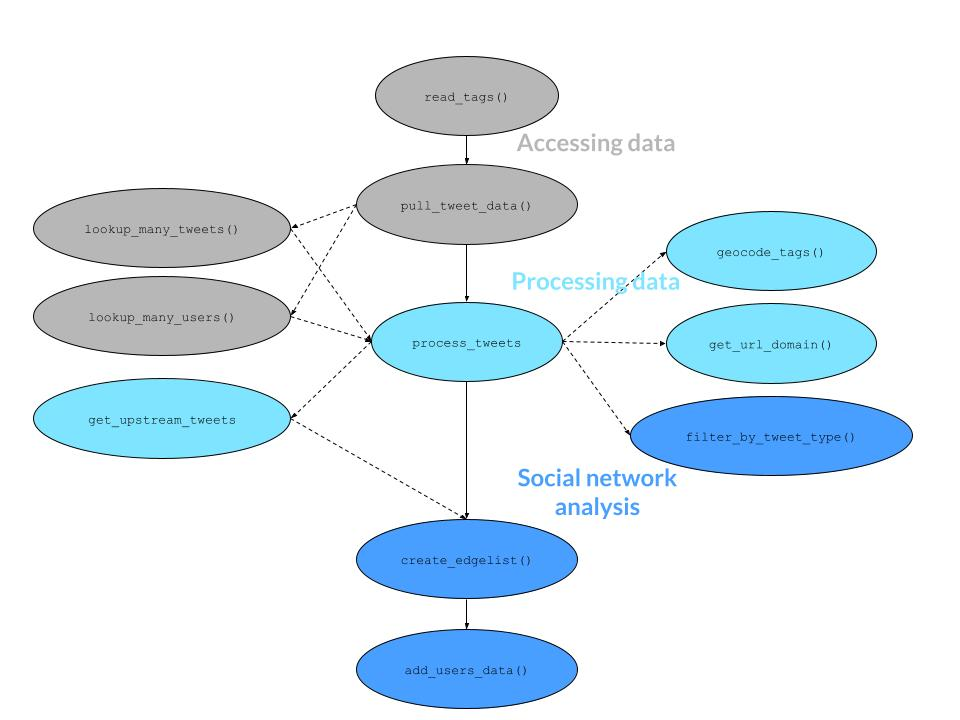
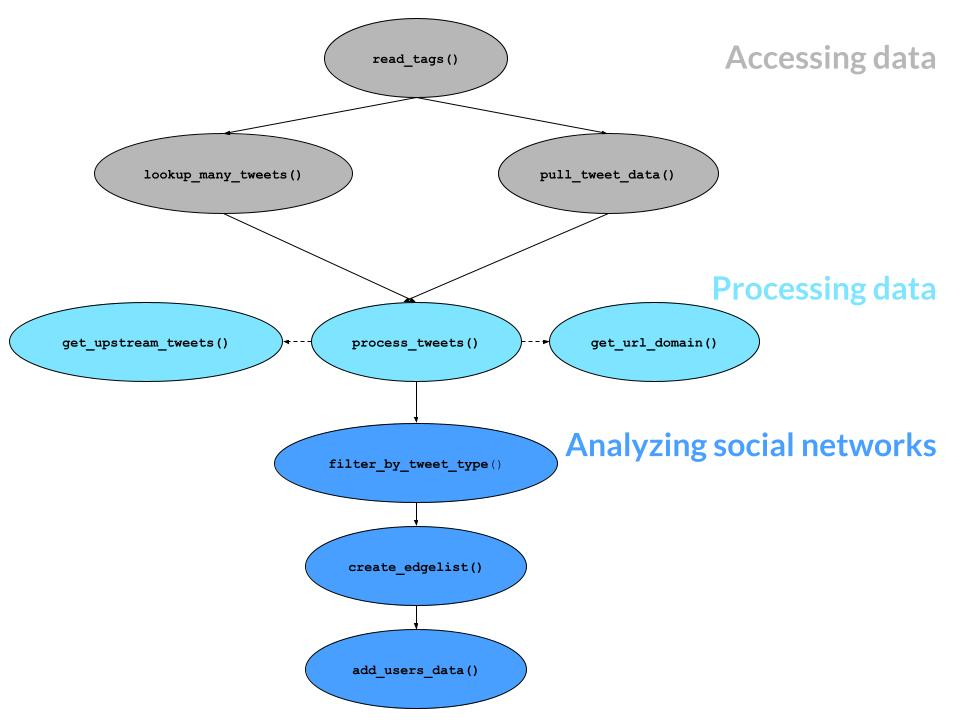
finished updating functions and editing README

diff --git a/CONTRIBUTING.md b/CONTRIBUTING.md
@@ -1,12 +1,12 @@
 # Contributing 
 
-This contributing guide has been derived from the {tidyverse} boilerplate (see their high-level [contributing guide](https://www.tidyverse.org/contribute/)). If you have any questions about contributing, please don't hesitate to [reach out](https://docs.ropensci.org/tidytags/#getting-help). We appreciate every contribution. We suggest first reading the [Getting started with tidytags](https://docs.ropensci.org/tidytags/articles/setup.html) vignette.
+This contributing guide has been derived from the **tidyverse** boilerplate (see their high-level [contributing guide](https://www.tidyverse.org/contribute/)). If you have any questions about contributing, please don't hesitate to [reach out](https://docs.ropensci.org/tidytags/#getting-help). We appreciate every contribution. We suggest first reading the [Getting started with tidytags](https://docs.ropensci.org/tidytags/articles/setup.html) vignette.
 
 ## Contributor Code of Conduct
 
 Please note that this package is released with a [Contributor Code of Conduct](https://ropensci.org/code-of-conduct/). By contributing to this project, you agree to abide by its terms.
 
-## Non-technical contributions to {tidytags}
+## Non-technical contributions to **tidytags**
 
 Feel free to [report issues](https://github.com/ropensci/tidytags/issues):
 
@@ -14,9 +14,9 @@ Feel free to [report issues](https://github.com/ropensci/tidytags/issues):
 * **Bug reports** are for unplanned malfunctions. If you have found a bug, follow the issue template to create a minimal [reprex](https://www.tidyverse.org/help/#reprex).
 * **Enhancement requests** are for ideas and new features.
 
-## Technical contributions to {tidytags}
+## Technical contributions to **tidytags**
 
-If you would like to contribute to the {tidytags} code base, follow the process below: 
+If you would like to contribute to the **tidytags** code base, follow the process below: 
 
 * [Prerequisites](#prerequisites)
 * [PR process](#pr-process)
@@ -33,29 +33,29 @@ If you would like to contribute to the {tidytags} code base, follow the process 
 * [Resources](#resources)
 * [Code of conduct](#code-of-conduct)
 
-This explains how to propose a change to {tidytags} via a pull request using
+This explains how to propose a change to **tidytags** via a pull request using
 Git and GitHub. 
 
-For more general info about contributing to {tidytags}, see the 
+For more general info about contributing to **tidytags**, see the 
 [Resources](#resources) at the end of this document.
 
 ### Prerequisites
 
-To test the {tidytags} package, you can use an openly shared [TAGS tracker](https://docs.google.com/spreadsheets/d/18clYlQeJOc6W5QRuSlJ6_v3snqKJImFhU42bRkM_OX8) that has been collecting tweets associated with the AECT 2019 since September 30, 2019. This is the same TAGS tracker used in the [Using tidytags with a conference hashtag](https://docs.ropensci.org/tidytags/articles/tidytags-with-conf-hashtags.html) vignette. 
+To test the **tidytags** package, you can use an openly shared [TAGS tracker](https://docs.google.com/spreadsheets/d/18clYlQeJOc6W5QRuSlJ6_v3snqKJImFhU42bRkM_OX8) that has been collecting tweets associated with the AECT 2019 since September 30, 2019. This is the same TAGS tracker used in the [Using tidytags with a conference hashtag](https://docs.ropensci.org/tidytags/articles/tidytags-with-conf-hashtags.html) vignette. 
 
-Note that this TAGS tracker is read-only in the web browser, because the utility of {tidytags} is reading a TAGS tracker archive into R using `read_tags("18clYlQeJOc6W5QRuSlJ6_v3snqKJImFhU42bRkM_OX8")` and then conducting analyses in an R environment.
+Note that this TAGS tracker is read-only in the web browser, because the utility of **tidytags** is reading a TAGS tracker archive into R using `read_tags("18clYlQeJOc6W5QRuSlJ6_v3snqKJImFhU42bRkM_OX8")` and then conducting analyses in an R environment.
 
-* Before you do a pull request, you should always file an issue and make sure someone from the {tidytags} team agrees that it’s a problem, and is happy with your basic proposal for fixing it. We don’t want you to spend a bunch of time on something that we don’t think is a real problem or an appropriate solution.
-* Also make sure to read the [{tidyverse} style guide](http://style.tidyverse.org/) which will make sure that your new code and documentation matches the existing style. This makes the review process much smoother.
+* Before you do a pull request, you should always file an issue and make sure someone from the **tidytags** team agrees that it’s a problem, and is happy with your basic proposal for fixing it. We don’t want you to spend a bunch of time on something that we don’t think is a real problem or an appropriate solution.
+* Also make sure to read the [**tidyverse** style guide](http://style.tidyverse.org/) which will make sure that your new code and documentation matches the existing style. This makes the review process much smoother.
 
 ### PR process
 
-You are welcome to contribute a *pull request* (PR) to {tidytags}. The most important thing to know is that tidyverse packages use {roxygen2}: this means that documentation is found in the R code close to the source of each function.
+You are welcome to contribute a *pull request* (PR) to **tidytags**. The most important thing to know is that tidyverse packages use **roxygen2**: this means that documentation is found in the R code close to the source of each function.
 
 #### Fork, clone, branch
 
 The first thing you'll need to do is to [fork](https://help.github.com/articles/fork-a-repo/) 
-the [{tidytags} GitHub repo](https://github.com/ropensci/tidytags), and 
+the [**tidytags** GitHub repo](https://github.com/ropensci/tidytags), and 
 then clone it locally. We recommend that you create a branch for each PR.
 
 #### Check
@@ -71,7 +71,7 @@ devtools::check()
 #### Style
 
 Match the existing code style. This means you should follow the tidyverse 
-[style guide](http://style.tidyverse.org). Use the [{styler}](https://CRAN.R-project.org/package=styler) package to apply the style guide automatically and the [{spelling}](https://CRAN.R-project.org/package=spelling) package to check spelling.
+[style guide](http://style.tidyverse.org). Use the [**styler**](https://CRAN.R-project.org/package=styler) package to apply the style guide automatically and the [**spelling**](https://CRAN.R-project.org/package=spelling) package to check spelling.
 
 Be careful to only make style changes to the code you are contributing. If you find that there is a lot of code that doesn't meet the style guide, it would be better to file an issue or a separate PR to fix that first.
 
@@ -83,21 +83,21 @@ spelling::update_wordlist()
 
 #### Document
 
-We use [{roxygen2}](https://cran.r-project.org/package=roxygen2), specifically with the [Markdown syntax](https://cran.r-project.org/web/packages/roxygen2/vignettes/markdown.html), to create `NAMESPACE` and all `.Rd` files. All edits to documentation should be done in roxygen comments above the associated function or object. Then, run `devtools::document()` to rebuild the `NAMESPACE` and `.Rd` files.
+We use [**roxygen2**](https://cran.r-project.org/package=roxygen2), specifically with [Markdown syntax](https://cran.r-project.org/web/packages/roxygen2/vignettes/markdown.html), to create `NAMESPACE` and all `.Rd` files. All edits to documentation should be done in roxygen comments above the associated function or object. Then, run `devtools::document()` to rebuild the `NAMESPACE` and `.Rd` files.
 
 See the `RoxygenNote` in [DESCRIPTION](DESCRIPTION) for the version of
-{roxygen2} being used. 
+**roxygen2** being used. 
 
 #### Test
 
-We use [{testthat}](https://cran.r-project.org/package=testthat) for testing. Contributions with test cases are easier to review and verify. 
+We use [**testthat**](https://cran.r-project.org/package=testthat) for testing. Contributions with test cases are easier to review and verify. 
 
 ```r
 devtools::test()
 devtools::test_coverage()
 ```
 
-Note that because {tidytags} queries OpenCage and Twitter APIs, testing can be a bit tricky. Be sure to follow the [Getting started with tidytags](https://docs.ropensci.org/tidytags/articles/setup.html) vignette for establishing your own OpenCage API key and Twitter API tokens to conduct local testing. For CI testing, view the [setup-tidytags.R](tests/testthat/setup-tidytags.R) file in the package testing documentation to see how fake OAuth tokens are set up. The [HTTP testing in R](https://books.ropensci.org/http-testing/index.html) book is an invaluable resource.
+Note that because **tidytags** queries the Twitter API, testing can be a bit tricky. Be sure to follow the [Getting started with tidytags](https://docs.ropensci.org/tidytags/articles/setup.html) vignette for establishing your own Twitter API tokens to conduct local testing. For CI testing, view the [setup-tidytags.R](tests/testthat/setup-tidytags.R) file in the package testing documentation to see how fake OAuth tokens are set up. The [HTTP testing in R](https://books.ropensci.org/http-testing/index.html) book is an invaluable resource.
 
 #### Re-check
 

diff --git a/README.md b/README.md
@@ -44,7 +44,7 @@ Checks
 <a href="https://cran.r-project.org/"><img src="https://img.shields.io/badge/R%3E%3D-4.1.0-blue.svg" alt="Minimal R Version"></a>
 </td>
 <td align="left">
-<a href="https://github.com/openjournals/joss-reviews/issues/4130"><img src="https://joss.theoj.org/papers/fc4f003ad3891b8ba8e3fc8f8ae2c6e0/status.svg" alt="JOSS"></a>
+<a href="https://cran.r-project.org/package=tidytags"><img src="https://www.r-pkg.org/badges/version/tidytags" alt="CRAN"></a>
 </td>
 <td align="left">
 <a href="https://lifecycle.r-lib.org/articles/stages.html#stable"><img src="https://lifecycle.r-lib.org/articles/figures/lifecycle-stable.svg" alt='Lifecycle'></a>
@@ -57,7 +57,6 @@ Checks
 <td align="left">
 </td>
 <td align="left">
-<a href="https://cran.r-project.org/package=tidytags"><img src="https://www.r-pkg.org/badges/version/tidytags" alt="CRAN"></a>
 </td>
 <td align="left">
 <a href="https://github.com/ropensci/tidytags/commits/main"><img src="https://img.shields.io/github/last-commit/ropensci/tidytags.svg" alt="Last Commit"></a>
@@ -76,9 +75,7 @@ The purpose of **tidytags** is to make the collection of Twitter data
 more accessible and robust. **tidytags** retrieves tweet data collected
 by a [Twitter Archiving Google Sheet
 (TAGS)](https://tags.hawksey.info/), gets additional metadata from
-Twitter via the
-**[rtweet](https://docs.ropensci.org/rtweet/index.html/)** R package,
-and from OpenCage using the **[opencage](https://opencagedata.com/)** R
+Twitter via the **[rtweet](https://docs.ropensci.org/rtweet/)** R
 package, and provides additional functions to facilitate a systematic
 yet flexible analyses of data from Twitter. TAGS is based on Google
 spreadsheets. A TAGS tracker continuously collects tweets from Twitter,
@@ -86,13 +83,9 @@ based on predefined search criteria and collection frequency.
 
 In short, **tidytags** first uses TAGS to easily collect tweet ID
 numbers and then uses the R package **rtweet** to re-query the Twitter
-API to collect additional metadata.
-
-**tidytags** also introduces functions developed to facilitate
-systematic yet flexible analyses of data from Twitter. It also
-interfaces with several other packages, including the [opencage
-package](https://opencagedata.com/), to geocode the locations of Twitter
-users based on their biographies.
+API to collect additional metadata. **tidytags** also introduces
+functions developed to facilitate systematic yet flexible analyses of
+data from Twitter.
 
 Two vignettes illustrate the setup and use of the package:
 
@@ -126,12 +119,10 @@ library(tidytags)
 For help with initial **tidytags** setup, see the [Getting started with
 tidytags](https://docs.ropensci.org/tidytags/articles/setup.html/)
 vignette (`vignette("setup", package = "tidytags")`). Specifically, this
-guide offers help for four key tasks:
+guide offers help for two key tasks:
 
 1.  Making sure your TAGS tracker can be accessed
-2.  Getting and storing a Google API key
-3.  Getting and storing Twitter API tokens
-4.  Getting and storing an OpenCage Geocoding API key
+2.  Getting and storing Twitter API tokens
 
 ------------------------------------------------------------------------
 
@@ -148,7 +139,7 @@ vignette](https://docs.ropensci.org/tidytags/articles/tidytags-with-conf-hashtag
 
 ## Core Functions
 
-### read\_tags()
+### read_tags()
 
 At its most basic level, **tidytags** allows you to import data from a
 [Twitter Archiving Google Sheet](https://tags.hawksey.info/) (TAGS) into
@@ -158,13 +149,11 @@ package. One requirement for using the **googlesheets4** package is that
 your TAGS tracker has been “published to the web.” See the [Getting
 started with
 tidytags](https://docs.ropensci.org/tidytags/articles/setup.html/)
-vignette (`vignette("setup", package = "tidytags")`), **Pain Point
-\#1**, if you need help with this. Once a TAGS tracker has been
-published to the web, you can import the TAGS archive into R using
-`read_tags()`. See the [Getting started with
-tidytags](https://docs.ropensci.org/tidytags/articles/setup.html/)
-vignette (`vignette("setup", package = "tidytags")`), **Pain Point
-\#2**, to set up API access to Google Sheets like the TAGS tracker.
+vignette (`vignette("setup", package = "tidytags")`), **Key Task \#1**,
+if you need help with this.
+
+Once a TAGS tracker has been published to the web, you can import the
+TAGS archive into R using `read_tags()`.
 
 ``` r
 example_tags <- "18clYlQeJOc6W5QRuSlJ6_v3snqKJImFhU42bRkM_OX8"
@@ -186,39 +175,43 @@ head(tags_data)
 #> #   status_url <chr>, entities_str <chr>
 ```
 
-### pull\_tweet\_data()
+### pull_tweet_data()
 
 With a TAGS archive imported into R, **tidytags** allows you to gather
 quite a bit more information related to the collected tweets with the
 `pull_tweet_data()` function. This function uses the **[rtweet
-package](https://docs.ropensci.org/rtweet/index.html/)** (via
-`rtweet::lookup_tweets()`) to query the Twitter API. This process
-requires Twitter API keys associated with an approved Twitter developer
-account. See the [Getting started with
+package](https://docs.ropensci.org/rtweet/)** (via
+`rtweet::lookup_tweets()`) to query the Twitter API.
+
+This process requires Twitter API keys associated with an approved
+Twitter developer account. See the [Getting started with
 tidytags](https://docs.ropensci.org/tidytags/articles/setup.html/)
-vignette (`vignette("setup", package = "tidytags")`), **Pain Point
-\#3**, if you need help with this.
+vignette (`vignette("setup", package = "tidytags")`), **Key Task \#2**,
+if you need help with this.
 
 ``` r
+app <- rtweet::rtweet_app(bearer_token = Sys.getenv("TWITTER_BEARER_TOKEN"))
+rtweet::auth_as(app)
+
 expanded_metadata <- pull_tweet_data(tags_data, n = 10)
 expanded_metadata
-#> # A tibble: 7 × 90
-#>   user_id             status_id     created_at          screen_name text  source
-#>   <chr>               <chr>         <dttm>              <chr>       <chr> <chr> 
-#> 1 14215524            122512231784… 2020-02-05 18:21:36 tadousay    "Man… Tweet…
-#> 2 922536306437181440  121975838643… 2020-01-21 23:07:15 gsa_aect    "The… Tweet…
-#> 3 922536306437181440  122940535017… 2020-02-17 14:00:51 gsa_aect    "Man… Tweet…
-#> 4 1251951804398669825 125195431277… 2020-04-19 19:22:23 Harriet961… "Con… Twitt…
-#> 5 1088189033266798598 121904357455… 2020-01-19 23:46:51 aectddl     "The… Twitt…
-#> 6 3294167372          123420694673… 2020-03-01 20:00:41 ELTAugusta  "Rem… Twitt…
-#> 7 804807943           122513787992… 2020-02-05 19:23:27 AECTTechTr… "Man… Twitt…
-#> # … with 84 more variables: display_text_width <dbl>, reply_to_status_id <lgl>,
-#> #   reply_to_user_id <lgl>, reply_to_screen_name <lgl>, is_quote <lgl>,
-#> #   is_retweet <lgl>, favorite_count <int>, retweet_count <int>,
-#> #   quote_count <int>, reply_count <int>, hashtags <list>, symbols <list>,
-#> #   urls_url <list>, urls_t.co <list>, urls_expanded_url <list>,
-#> #   media_url <list>, media_t.co <list>, media_expanded_url <list>,
-#> #   media_type <list>, ext_media_url <list>, ext_media_t.co <list>, …
+#> # A tibble: 7 × 43
+#>   created_at               id id_str        full_text truncated display_text_ra…
+#>   <dttm>                <dbl> <chr>         <chr>     <lgl>                <dbl>
+#> 1 2020-04-19 15:22:23 1.25e18 125195431277… "RT @Rou… FALSE                  140
+#> 2 2020-03-01 15:00:41 1.23e18 123420694673… "RT @vel… FALSE                  140
+#> 3 2020-02-17 09:00:51 1.23e18 122940535017… "RT @tad… FALSE                  140
+#> 4 2020-02-05 14:23:27 1.23e18 122513787992… "RT @tad… FALSE                  140
+#> 5 2020-02-05 13:21:36 1.23e18 122512231784… "Many th… FALSE                  268
+#> 6 2020-01-21 18:07:15 1.22e18 121975838643… "RT @AEC… FALSE                  140
+#> 7 2020-01-19 18:46:51 1.22e18 121904357455… "RT @AEC… FALSE                  140
+#> # … with 37 more variables: entities <list>, source <chr>,
+#> #   in_reply_to_status_id <lgl>, in_reply_to_status_id_str <lgl>,
+#> #   in_reply_to_user_id <lgl>, in_reply_to_user_id_str <lgl>,
+#> #   in_reply_to_screen_name <lgl>, geo <list>, coordinates <list>,
+#> #   place <list>, contributors <lgl>, is_quote_status <lgl>,
+#> #   retweet_count <int>, favorite_count <int>, favorited <lgl>,
+#> #   retweeted <lgl>, possibly_sensitive <lgl>, lang <chr>, …
 ```
 
 ------------------------------------------------------------------------
